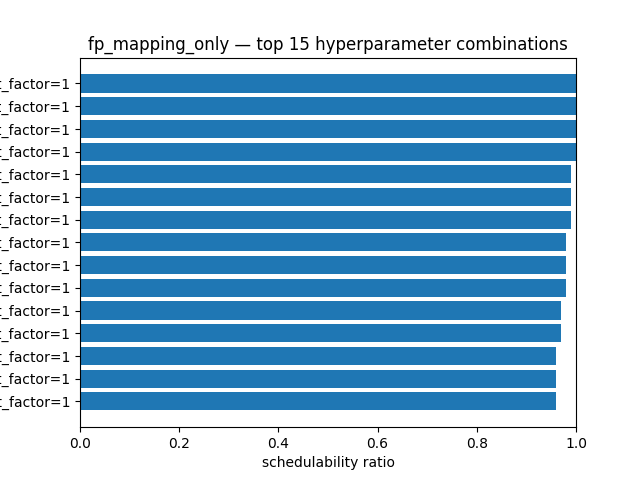
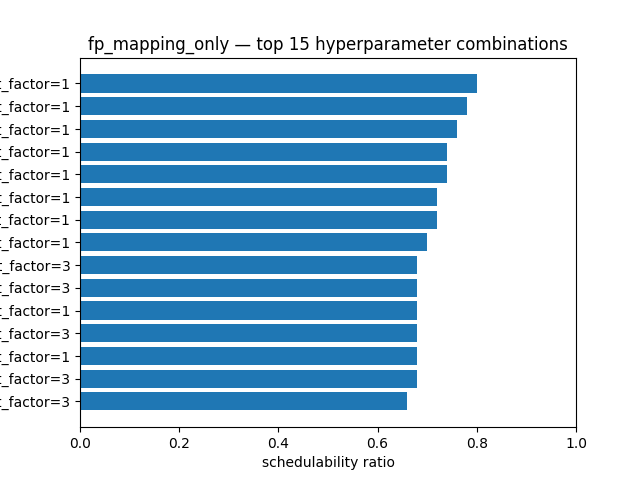
update

diff --git a/workspace/framework_paper/fp-mapping/gradient_fp_mapping_val.py b/workspace/framework_paper/fp-mapping/gradient_fp_mapping_val.py
@@ -5,10 +5,11 @@ from random import Random
 from functools import partial
 
 from assignment.assignments import PDAssignment, EQSAssignment, EQFAssignment
+from assignment.bf_assignment import BruteForceFPMappingAssignment
 from assignment.hopa_assignment import HOPAssignment
 from examples.evaluation import SchedRatioEval
 from examples.example_models import get_system
-from examples.generator import unbalance
+from examples.generator import unbalance_contended
 from gradient_descent.gradient_optimizer import GradientDescentOptimizer
 from gradient_descent.parameter_handlers import PriorityExtractor, MappingPriorityExtractor
 from gradient_descent.cost_functions import InvslackCost
@@ -22,10 +23,10 @@ def gdpa_pd_fp_vector(system: LinearSystem) -> bool:
     analysis = HolisticFPAnalysis(limit_factor=10, reset=False)
     parameter_handler = PriorityExtractor()
     cost_function = InvslackCost(parameter_handler=parameter_handler, analysis=analysis)
-    stop_function = ThresholdStopFunction(limit=100)
-    gradient_function = VectorFPGradientFunction(scenarios_builder=PrioritiesMatrix())
+    stop_function = ThresholdStopFunction(limit=100, patience=None)
+    gradient_function = VectorFPGradientFunction(scenarios_builder=PrioritiesMatrix(), sigma=3.0, cost_limit_factor=1)
 
-    update_function = NoisyAdam()
+    update_function = NoisyAdam(lr=1.5, beta1=0.9, beta2=0.999, epsilon=0.01, gamma=0.3)
     optimizer = GradientDescentOptimizer(parameter_handler=parameter_handler,
                                         cost_function=cost_function,
                                         stop_function=stop_function,
@@ -45,9 +46,9 @@ def gdpa_pd_fp_mapping_vector(system: LinearSystem) -> bool:
     parameter_handler = MappingPriorityExtractor()
     cost_function = InvslackCost(parameter_handler=parameter_handler, analysis=analysis)
     stop_function = ThresholdStopFunction(limit=100)
-    gradient_function = VectorFPGradientFunction(scenarios_builder=MappingPrioritiesMatrix(), sigma=1.5)
+    gradient_function = VectorFPGradientFunction(scenarios_builder=MappingPrioritiesMatrix(), sigma=3.0, cost_limit_factor=1)
 
-    update_function = NoisyAdam(lr=1.5, beta1=0.9, beta2=0.999, epsilon=0.1, gamma=0.5)
+    update_function = NoisyAdam(lr=1.5, beta1=0.9, beta2=0.999, epsilon=0.01, gamma=0.3)
     optimizer = GradientDescentOptimizer(parameter_handler=parameter_handler,
                                         cost_function=cost_function,
                                         stop_function=stop_function,
@@ -83,6 +84,13 @@ def eqf_fp(system: LinearSystem) -> bool:
     return system.is_schedulable()
 
 
+def bf_fp_mapping(system: LinearSystem) -> bool:
+    bf = BruteForceFPMappingAssignment(batch_size=100)
+    bf.apply(system)
+    HolisticFPAnalysis(limit_factor=1, reset=True).apply(system)
+    return system.is_schedulable()
+
+
 def hopa_fp(system: LinearSystem) -> bool:
     analysis = HolisticFPAnalysis(limit_factor=10, reset=False)
     hopa = HOPAssignment(analysis=analysis)
@@ -106,6 +114,7 @@ if __name__ == '__main__':
     tools = [
         ("gdpa-mapping", gdpa_pd_fp_mapping_vector),
         ("gdpa", gdpa_pd_fp_vector),
+        ("bf-mapping", bf_fp_mapping),
         # ("hopa", hopa_fp),
         # ("eqs", eqs_fp),
         # ("eqf", eqf_fp),
@@ -114,6 +123,6 @@ if __name__ == '__main__':
 
     labels, funcs = zip(*tools)
     runner = SchedRatioEval("gradient_fp_mapping_validation", labels=labels, funcs=funcs,
-                            preprocessor=unbalance,
+                            preprocessor=unbalance_contended,
                             systems=systems, utilizations=utilizations, threads=8)
     runner.run()

diff --git a/workspace/hyper-tuner/fp-mapping-only/tune_fp_mapping_only.py b/workspace/hyper-tuner/fp-mapping-only/tune_fp_mapping_only.py
@@ -56,19 +56,10 @@ if __name__ == "__main__":
     args = parser.parse_args()
 
     utilizations = np.linspace(0.5, 0.9, 20)
-    utilization = utilizations[8]
-
-    print(f"Started:  {datetime.now()}")
-    print(f"CLI args: threads={args.threads}, top_n={args.top_n}, output_dir={args.output_dir}")
-    print(f"Scenario: fp-mapping-only, target_utilization={utilization}")
-    print(f"Modules:  MappingOnlyExtractor, InvslackCost, ThresholdStopFunction")
-    print(f"          VectorFPGradientFunction(MappingOnlyMatrix), NoisyAdam")
-    print(f"Setup:    PDAssignment(normalize=True), unbalance_contended, set_utilization={utilization}")
-    print()
-
+    utilization = utilizations[14]
     rnd = Random(42)
     size = (3, 4, 3)
-    n = 100
+    n = 50
     systems = [get_system(size, rnd, balanced=False, name=str(i),
                           deadline_factor_min=0.5,
                           deadline_factor_max=1) for i in range(n)]
@@ -85,8 +76,16 @@ if __name__ == "__main__":
         "beta2": [0.999],
         "epsilon": [0.01, 0.1],
         "patience": [None],
-        "cost_limit_factor": [1],
+        "cost_limit_factor": [1, 3],
     }
+
+    print(f"Started:  {datetime.now()}")
+    print(f"CLI args: threads={args.threads}, top_n={args.top_n}, output_dir={args.output_dir}")
+    print(f"Scenario: fp-mapping-only, target_utilization={utilization}")
+    print(f"Modules:  MappingOnlyExtractor, InvslackCost, ThresholdStopFunction")
+    print(f"          VectorFPGradientFunction(MappingOnlyMatrix), NoisyAdam")
+    print(f"Setup:    PDAssignment(normalize=True), unbalance_contended, set_utilization={utilization}")
+    print()
 
     tuner = GradientHyperTuner(
         name="fp_mapping_only",

diff --git a/workspace/framework_paper/fp-mapping-only/gradient_fp_mapping_only_val.py b/workspace/framework_paper/fp-mapping-only/gradient_fp_mapping_only_val.py
@@ -27,7 +27,7 @@ def gdpa_pd_fp_mapping_only_vector(system: LinearSystem) -> bool:
     stop_function = ThresholdStopFunction(limit=100, patience=None)
     gradient_function = VectorFPGradientFunction(scenarios_builder=MappingOnlyMatrix(), sigma=3.0, cost_limit_factor=1)
 
-    update_function = NoisyAdam(lr=3, beta1=0.9, beta2=0.999, epsilon=0.1, gamma=0.3)
+    update_function = NoisyAdam(lr=1.5, beta1=0.9, beta2=0.999, epsilon=0.01, gamma=0.3)
     optimizer = GradientDescentOptimizer(parameter_handler=parameter_handler,
                                         cost_function=cost_function,
                                         stop_function=stop_function,